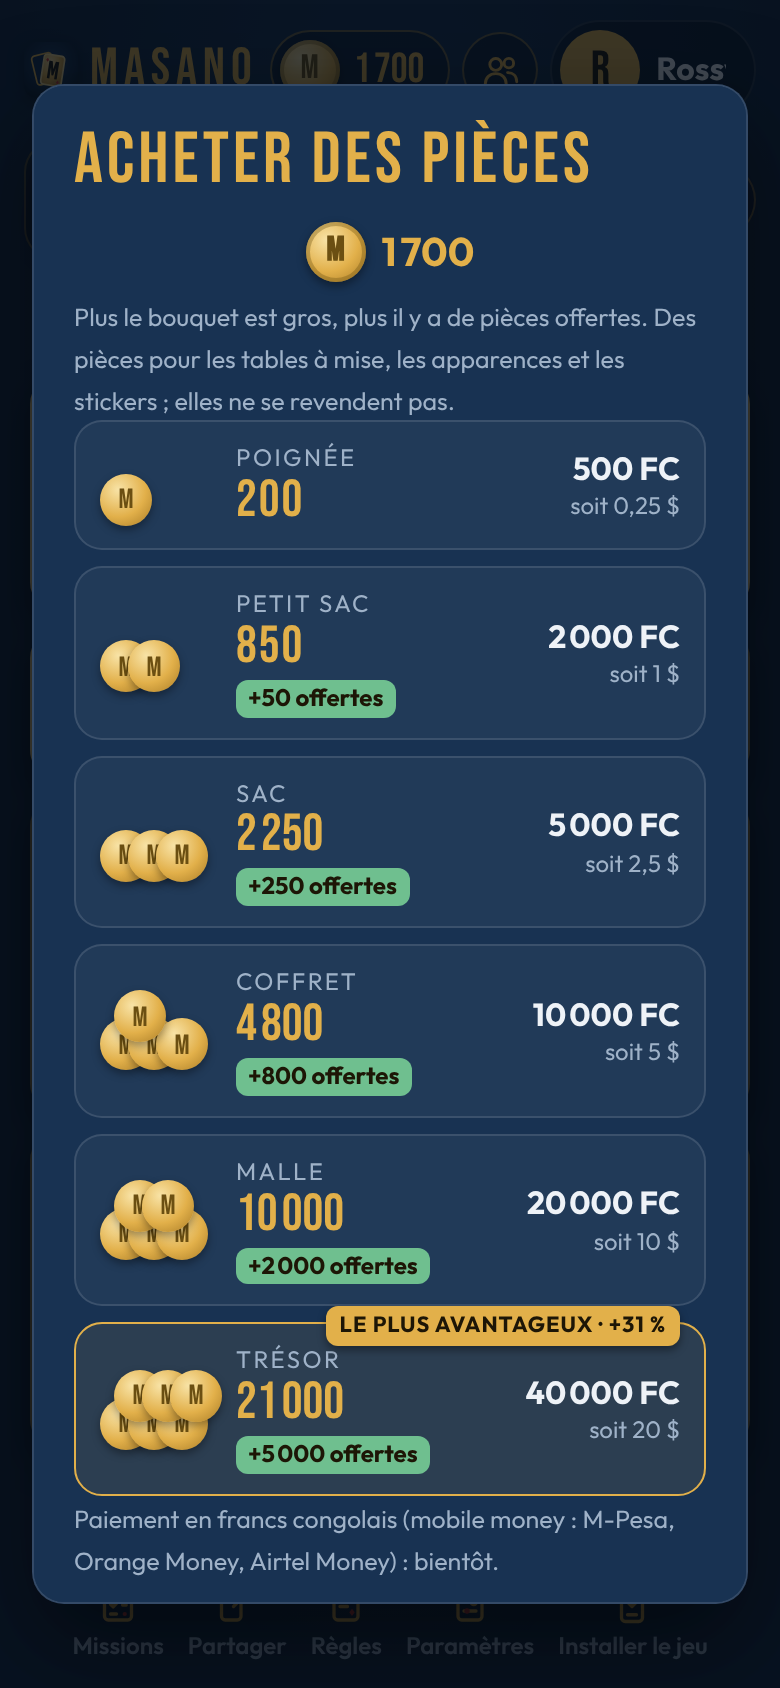
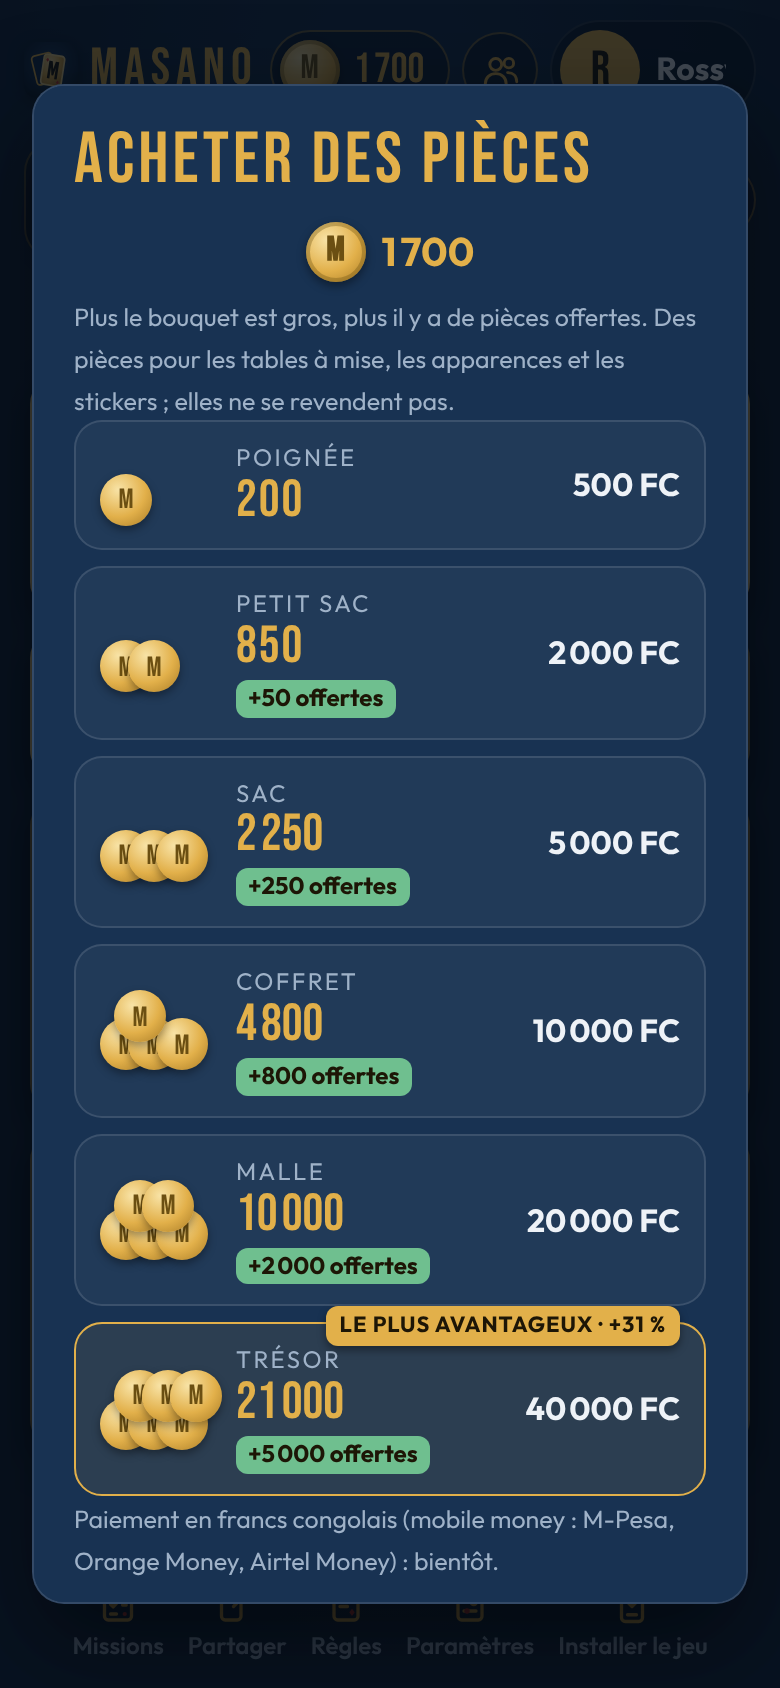
Bouquets de pièces : prix en francs congolais seulement (plus d'équivalence en dollars)
Claude-Session: https://claude.ai/code/session_01F9tQQJyjhP2rGQMGVYN3g7

diff --git a/server/src/bouquets.js b/server/src/bouquets.js
@@ -1,37 +1,35 @@
 // Bouquets de pièces (18/11) : l'endroit où l'on achète des pièces avec de l'argent réel (francs congolais, mobile money).
 // Même logique que les stickers (stickers.js) : le serveur fixe les prix, jamais le téléphone ; les francs et les pièces
-// suivent le taux de la stratégie (strategie-pieces §5.3 : 200 pièces ≈ 500 FC, soit 2,5 FC la pièce ; 1 $ ≈ 2 000 FC).
-// Plus le bouquet est gros, plus il donne de pièces en bonus. Le plus cher : 40 000 FC (20 $).
+// suivent le taux de la stratégie (strategie-pieces §5.3 : 200 pièces ≈ 500 FC, soit 2,5 FC la pièce).
+// Plus le bouquet est gros, plus il donne de pièces en bonus. Le plus cher : 40 000 FC.
 // Le paiement mobile money n'est pas encore branché : les bouquets s'affichent (« Bientôt »), et l'admin peut livrer
 // un bouquet à un joueur depuis le tableau de bord (paiement reçu à la main), avec un message au joueur.
 // Lignes rouges (strategie-pieces §5.4) : jamais de retrait ni d'échange de pièces, pas de tirage au sort.
 'use strict';
 
 const FC_PAR_PIECE = 2.5; // le même taux que les stickers (stickers.js)
-const FC_PAR_DOLLAR = 2000;
-const FRANCS_MAX = 40000; // 20 $
+const FRANCS_MAX = 40000;
 const BOUQUETS_MAX = 8;
 
 // Du moins cher au plus cher. `pieces` compte le bonus ; la base est francs / 2,5.
 const NOMS = ['Poignée', 'Petit sac', 'Sac', 'Coffret', 'Malle', 'Trésor', 'Grand trésor', 'Fortune'];
 const BOUQUETS_DEFAUT = [
-  { francs: 500, pieces: 200 }, //     0,25 $ : base 200, pas de bonus
-  { francs: 2000, pieces: 850 }, //       1 $ : base 800, +50 (6 %)
-  { francs: 5000, pieces: 2250 }, //    2,5 $ : base 2 000, +250 (12 %)
-  { francs: 10000, pieces: 4800 }, //     5 $ : base 4 000, +800 (20 %)
-  { francs: 20000, pieces: 10000 }, //   10 $ : base 8 000, +2 000 (25 %)
-  { francs: 40000, pieces: 21000 }, //   20 $ : base 16 000, +5 000 (31 %)
+  { francs: 500, pieces: 200 }, // base 200, pas de bonus
+  { francs: 2000, pieces: 850 }, // base 800, +50 (6 %)
+  { francs: 5000, pieces: 2250 }, // base 2 000, +250 (12 %)
+  { francs: 10000, pieces: 4800 }, // base 4 000, +800 (20 %)
+  { francs: 20000, pieces: 10000 }, // base 8 000, +2 000 (25 %)
+  { francs: 40000, pieces: 21000 }, // base 16 000, +5 000 (31 %)
 ];
 
 const erreur = (m, statut = 400) => Object.assign(new Error(m), { statut });
 const base = (francs) => Math.round(francs / FC_PAR_PIECE);
-const dollars = (francs) => Math.round((francs / FC_PAR_DOLLAR) * 100) / 100;
 
-// Ce que voit le joueur : nom, pièces (bonus compris), bonus en pièces et en %, prix en francs et en dollars.
+// Ce que voit le joueur : nom, pièces (bonus compris), bonus en pièces et en %, prix en francs congolais.
 function detailler(liste) {
   return liste.map((b, i) => {
     const bonus = b.pieces - base(b.francs);
-    return { id: i, nom: NOMS[i], francs: b.francs, dollars: dollars(b.francs), pieces: b.pieces, bonus, bonusPct: Math.round((100 * bonus) / base(b.francs)) };
+    return { id: i, nom: NOMS[i], francs: b.francs, pieces: b.pieces, bonus, bonusPct: Math.round((100 * bonus) / base(b.francs)) };
   });
 }
 
@@ -62,7 +60,7 @@ function creerBouquets(base_, reglages, comptes) {
   return {
     liste,
     // Pour le joueur. `paiement` : faux tant que le mobile money n'est pas branché (les prix sont affichés, rien ne se paie).
-    pourJoueur: () => ({ paiement: false, taux: { piecesPour500FC: 200, fcParDollar: FC_PAR_DOLLAR }, bouquets: liste() }),
+    pourJoueur: () => ({ paiement: false, taux: { piecesPour500FC: 200 }, bouquets: liste() }),
 
     // Tableau de bord : un bouquet livré à un joueur (paiement reçu à la main). Pièces au registre (motif « achat_pieces »)
     // et une notification au joueur, dans la même transaction.

diff --git a/index.html b/index.html
@@ -898,7 +898,6 @@ body.en-jeu #filChat { display: flex; }
 .bouquet .nom { font-size: 12px; color: var(--muted); text-transform: uppercase; letter-spacing: 1.2px; }
 .bouquet .bonus { display: inline-block; margin-top: 3px; font-size: 12px; font-weight: 700; color: #1d1606; background: #6fbf8f; border-radius: 6px; padding: 1px 6px; }
 .bouquet .px { text-align: right; font-weight: 700; font-size: 16px; white-space: nowrap; }
-.bouquet .px small { display: block; font-weight: 400; font-size: 12px; color: var(--muted); }
 .bouquet .ruban { position: absolute; top: -9px; right: 12px; background: var(--brass); color: #1d1606; font-size: 11px; font-weight: 700; border-radius: 6px; padding: 2px 7px; }
 .boutique .acheter-pieces { margin: 2px auto 4px; display: flex; }
 .boutique .st-tete-pack { display: flex; justify-content: space-between; align-items: center; gap: 8px; margin: 10px 0 4px; }
@@ -7805,7 +7804,7 @@ svg .vb { transform-box: view-box; }
   // Version de l'application, affichée dans Paramètres. À augmenter quand le serveur exige la nouvelle page
   // (« Version minimale » du tableau de bord).
   const VERSION = '1.1';
-  const BUILD = '0fed33dba39c'; // empreinte de index.html, posée par build.js (sert à voir qu'une nouvelle version est en ligne)
+  const BUILD = 'dad6fc5ca970'; // empreinte de index.html, posée par build.js (sert à voir qu'une nouvelle version est en ligne)
   const PREFS_DEFAUT = { vibrations: true, animations: 'normales', tri: 'couleur', confirmerToutPoser: false, quatreCouleurs: false, sonAutresCoupe: false, effetsSonores: true, musique: true };
   const prefs = Object.assign({}, PREFS_DEFAUT, stock.lire('kopo-prefs') || {});
   // La musique des menus était coupée par défaut : on l'allume une fois pour tous (le joueur peut la recouper).
@@ -11486,7 +11485,7 @@ svg .vb { transform-box: view-box; }
     ouvrirFenetre([corps, ...boutons, el('small', 'muted', 'Paiement en francs congolais (mobile money) : bientôt.'), non], 'boutique');
   }
 
-  // Acheter des pièces (18/11) : des bouquets du moins cher (500 FC) au plus cher (40 000 FC, 20 $), prix fixés par le serveur,
+  // Acheter des pièces (18/11) : des bouquets du moins cher (500 FC) au plus cher (40 000 FC), prix fixés par le serveur,
   // au même taux que les stickers (200 pièces ≈ 500 FC), avec un bonus qui grandit avec le bouquet.
   // Le paiement mobile money n'est pas encore branché : les bouquets s'affichent avec « Bientôt ».
   async function ouvrirAchatPieces(retour) {
@@ -11506,7 +11505,7 @@ svg .vb { transform-box: view-box; }
       const q = el('div', 'qte'); q.append(formatPieces(b.pieces));
       mil.append(el('div', 'nom', b.nom), q);
       if (b.bonus) mil.append(el('span', 'bonus', `+${formatPieces(b.bonus)} offertes`));
-      const px = el('div', 'px', formatPieces(b.francs) + ' FC'); px.append(el('small', null, 'soit ' + String(b.dollars).replace('.', ',') + ' $'));
+      const px = el('div', 'px', formatPieces(b.francs) + ' FC');
       r.append(tas, mil, px);
       if (b === meilleur && b.bonus) r.append(el('span', 'ruban', `Le plus avantageux · +${b.bonusPct} %`));
       r.setAttribute('aria-label', `${b.nom} : ${b.pieces} pièces pour ${b.francs} francs congolais`);

diff --git a/src/source.html b/src/source.html
@@ -898,7 +898,6 @@ body.en-jeu #filChat { display: flex; }
 .bouquet .nom { font-size: 12px; color: var(--muted); text-transform: uppercase; letter-spacing: 1.2px; }
 .bouquet .bonus { display: inline-block; margin-top: 3px; font-size: 12px; font-weight: 700; color: #1d1606; background: #6fbf8f; border-radius: 6px; padding: 1px 6px; }
 .bouquet .px { text-align: right; font-weight: 700; font-size: 16px; white-space: nowrap; }
-.bouquet .px small { display: block; font-weight: 400; font-size: 12px; color: var(--muted); }
 .bouquet .ruban { position: absolute; top: -9px; right: 12px; background: var(--brass); color: #1d1606; font-size: 11px; font-weight: 700; border-radius: 6px; padding: 2px 7px; }
 .boutique .acheter-pieces { margin: 2px auto 4px; display: flex; }
 .boutique .st-tete-pack { display: flex; justify-content: space-between; align-items: center; gap: 8px; margin: 10px 0 4px; }
@@ -5466,7 +5465,7 @@ try { (function () { var p = JSON.parse(localStorage.getItem('kopo-prefs') || '{
     ouvrirFenetre([corps, ...boutons, el('small', 'muted', 'Paiement en francs congolais (mobile money) : bientôt.'), non], 'boutique');
   }
 
-  // Acheter des pièces (18/11) : des bouquets du moins cher (500 FC) au plus cher (40 000 FC, 20 $), prix fixés par le serveur,
+  // Acheter des pièces (18/11) : des bouquets du moins cher (500 FC) au plus cher (40 000 FC), prix fixés par le serveur,
   // au même taux que les stickers (200 pièces ≈ 500 FC), avec un bonus qui grandit avec le bouquet.
   // Le paiement mobile money n'est pas encore branché : les bouquets s'affichent avec « Bientôt ».
   async function ouvrirAchatPieces(retour) {
@@ -5486,7 +5485,7 @@ try { (function () { var p = JSON.parse(localStorage.getItem('kopo-prefs') || '{
       const q = el('div', 'qte'); q.append(formatPieces(b.pieces));
       mil.append(el('div', 'nom', b.nom), q);
       if (b.bonus) mil.append(el('span', 'bonus', `+${formatPieces(b.bonus)} offertes`));
-      const px = el('div', 'px', formatPieces(b.francs) + ' FC'); px.append(el('small', null, 'soit ' + String(b.dollars).replace('.', ',') + ' $'));
+      const px = el('div', 'px', formatPieces(b.francs) + ' FC');
       r.append(tas, mil, px);
       if (b === meilleur && b.bonus) r.append(el('span', 'ruban', `Le plus avantageux · +${b.bonusPct} %`));
       r.setAttribute('aria-label', `${b.nom} : ${b.pieces} pièces pour ${b.francs} francs congolais`);

diff --git a/server/public/admin.html b/server/public/admin.html
@@ -96,8 +96,8 @@ const DIV = { bois: 'Bois', bronze: 'Bronze', argent: 'Argent', or: 'Or', diaman
 async function bouquetsAdmin() {
   const B = await api('/bouquets');
   $('#bouquets').innerHTML = `<div class="carte"><table><tr><th>Bouquet</th><th class="n">Prix</th><th class="n">Pièces</th><th class="n">dont bonus</th></tr>
-      ${B.bouquets.map((b) => `<tr><td>${esc(b.nom)}</td><td class="n">${nb(b.francs)} FC <span class="muted">(${String(b.dollars).replace('.', ',')} $)</span></td><td class="n">${nb(b.pieces)}</td><td class="n">${b.bonus ? `+${nb(b.bonus)} <span class="muted">(${b.bonusPct} %)</span>` : '<span class="muted">—</span>'}</td></tr>`).join('')}</table>
-      <p class="muted" style="margin:8px 0 0">Même taux que les stickers : 200 pièces ≈ 500 FC (1 $ ≈ 2 000 FC). Plus le bouquet est gros, plus le bonus monte. Les joueurs voient ces bouquets dans « Acheter des pièces » ; le paiement mobile money n'est pas encore branché (« Bientôt »).</p></div>
+      ${B.bouquets.map((b) => `<tr><td>${esc(b.nom)}</td><td class="n">${nb(b.francs)} FC</td><td class="n">${nb(b.pieces)}</td><td class="n">${b.bonus ? `+${nb(b.bonus)} <span class="muted">(${b.bonusPct} %)</span>` : '<span class="muted">—</span>'}</td></tr>`).join('')}</table>
+      <p class="muted" style="margin:8px 0 0">Même taux que les stickers : 200 pièces ≈ 500 FC. Plus le bouquet est gros, plus le bonus monte. Les joueurs voient ces bouquets dans « Acheter des pièces » ; le paiement mobile money n'est pas encore branché (« Bientôt »).</p></div>
     <div class="carte"><b>Livrer un bouquet</b> <span class="muted">(paiement mobile money reçu à la main)</span>
       <div class="ligne"><input id="bqJoueur" placeholder="Pseudo#1234" style="width:180px"><select id="bqQuoi">${B.bouquets.map((b) => `<option value="${b.id}">${esc(b.nom)} · ${nb(b.francs)} FC → ${nb(b.pieces)} pièces</option>`).join('')}</select>
         <input id="bqRef" placeholder="Référence (ex. n° de transaction)" style="flex:1;min-width:200px"><button class="btn principal" id="bqLivrer">Livrer</button></div>

diff --git a/mobile/lib/fenetres/progres.dart b/mobile/lib/fenetres/progres.dart
@@ -498,7 +498,7 @@ void _acheterStickers(Map s, int solde, {String? sticker, String? pack, required
 }
 
 // ---------------------------------------------------------------- acheter des pièces
-// Bouquets du moins cher (500 FC) au plus cher (40 000 FC, 20 \$), prix fixés par le serveur au taux des stickers
+// Bouquets du moins cher (500 FC) au plus cher (40 000 FC), prix fixés par le serveur au taux des stickers
 // (200 pièces ≈ 500 FC), avec un bonus qui grandit avec le bouquet. Le paiement mobile money n'est pas encore branché.
 Future<void> ouvrirAchatPieces({VoidCallback? retour}) async {
   Map B;
@@ -509,8 +509,6 @@ Future<void> ouvrirAchatPieces({VoidCallback? retour}) async {
   app.soldeServeur(B['solde']);
   app.ouvrirFenetre((context) => fenetreAchatPieces(B, retour: retour), 'boutique');
 }
-
-String _dollars(num d) => (d == d.roundToDouble() ? d.toInt().toString() : d.toString().replaceAll('.', ','));
 
 /// La fenêtre elle-même (séparée pour les captures d'écran).
 Widget fenetreAchatPieces(Map B, {VoidCallback? retour}) {
@@ -543,10 +541,7 @@ Widget fenetreAchatPieces(Map B, {VoidCallback? retour}) {
               child: Text('+${App.formatPieces(b['bonus'] as num)} offertes', style: K.texte(12, couleur: K.encre, poids: FontWeight.w700)),
             ),
         ])),
-        Column(crossAxisAlignment: CrossAxisAlignment.end, children: [
-          Text('${App.formatPieces(b['francs'] as num)} FC', style: K.texte(16, poids: FontWeight.w700)),
-          Text('soit ${_dollars(b['dollars'] as num)} \$', style: K.texte(12, couleur: K.muted)),
-        ]),
+        Text('${App.formatPieces(b['francs'] as num)} FC', style: K.texte(16, poids: FontWeight.w700)),
       ]),
     );
     return Padding(

diff --git a/server/tests/tout.js b/server/tests/tout.js
@@ -1784,7 +1784,7 @@ async function jouerPublique(joueurs, { parCode = false } = {}) {
     const B = (await api('/api/v1/bouquets', { jeton: a.jeton })).json;
     assert.strictEqual(B.paiement, false);
     assert.deepStrictEqual(B.bouquets.map((b) => [b.francs, b.pieces]), [[500, 200], [2000, 850], [5000, 2250], [10000, 4800], [20000, 10000], [40000, 21000]]);
-    assert.strictEqual(B.bouquets.at(-1).dollars, 20);
+    assert.strictEqual(B.bouquets.at(-1).francs, 40000); assert.ok(!('dollars' in B.bouquets[0]));
     for (let i = 1; i < B.bouquets.length; i++) {
       assert.ok(B.bouquets[i].francs > B.bouquets[i - 1].francs && B.bouquets[i].bonusPct > B.bouquets[i - 1].bonusPct, 'bonus croissant');
     }
